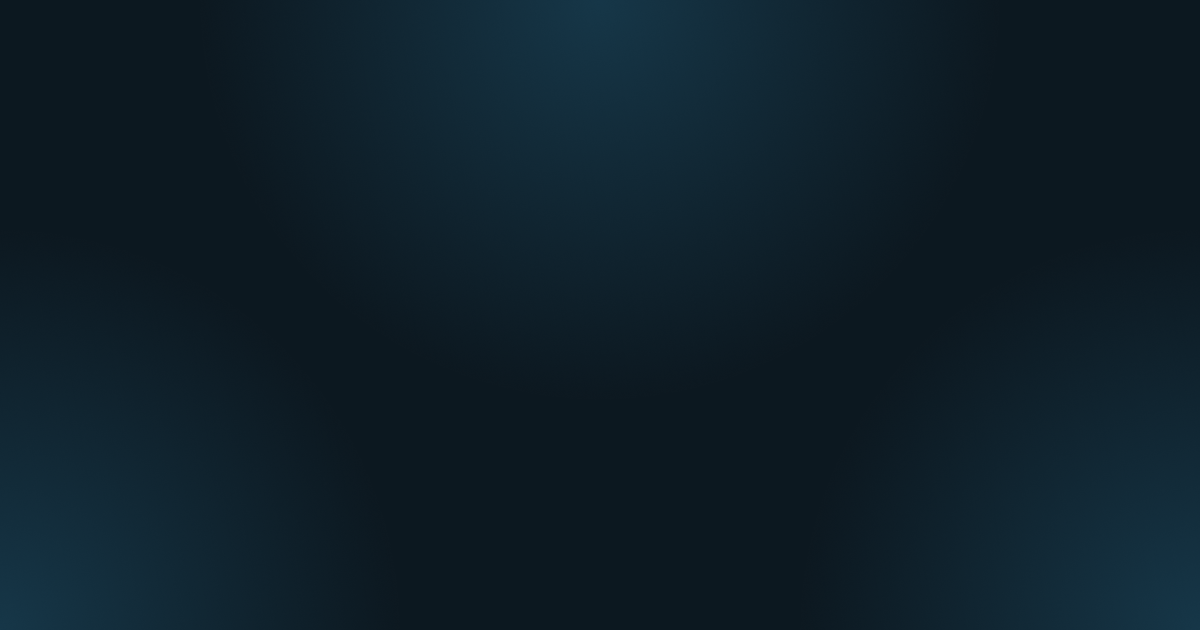
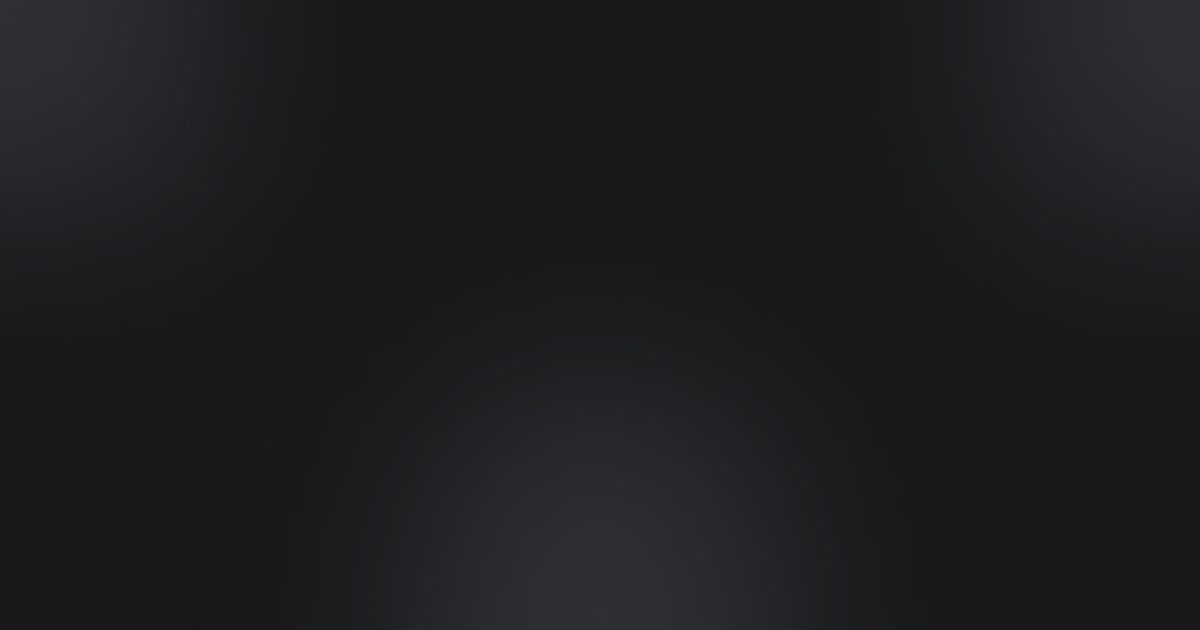
styles: rework color palette

diff --git a/src/app/(site)/page.tsx b/src/app/(site)/page.tsx
@@ -77,7 +77,7 @@ export default function SiteHome() {
 
   return (
     <Main className="gap-9 sm:gap-10">
-      <Hero {...about.hero} />
+      <Hero isBig {...about.hero} />
       <Section id={about.id} title={about.title} subtitle={about.subtitle}>
         <MDX source={about.content} />
       </Section>
@@ -96,9 +96,9 @@ export default function SiteHome() {
             className="group flex gap-5 lg:group-hover/list:opacity-50 lg:hover:!opacity-100 lg:transition-opacity"
           >
             <div className="relative">
-              <div className="group-hover:bg-accent-9 w-4 h-4 rounded-full bg-accent-7 lg:transition-colors" />
+              <div className="w-4 h-4 rounded-full bg-accent-8 group-hover:bg-accent-9 lg:transition-colors" />
               {i < experience.items.length - 1 ? (
-                <div className="absolute top-4 bottom-0 left-1/2 w-[1px] bg-accent-5" />
+                <div className="absolute top-4 bottom-0 left-1/2 w-[1px] bg-base-6" />
               ) : null}
             </div>
             <div className="flex flex-col gap-4 pb-8">
@@ -110,9 +110,7 @@ export default function SiteHome() {
                   {item.position} @ {item.company}
                 </h3>
               </div>
-              <div className="typography-2 text-dimmed">
-                <MDX source={item.description} />
-              </div>
+              <MDX className="typography-2" source={item.description} />
             </div>
           </a>
         ))}
@@ -149,13 +147,15 @@ export default function SiteHome() {
                 >
                   <Paper className="absolute -z-10 -inset-5 opacity-0 lg:group-hover:opacity-100 lg:transition-opacity" />
                   {item.imgSrc && item.imgAlt ? (
-                    <Image
-                      src={item.imgSrc}
-                      alt={item.imgAlt}
-                      width={150}
-                      height={90}
-                      className="flex-shrink-0 rounded-md border-2 border-base-6 group-hover:border-accent-8 transition-colors"
-                    />
+                    <div className="relative flex-shrink-0 rounded border-2 border-base-6 group-hover:border-accent-8 transition-colors overflow-hidden">
+                      <Image
+                        src={item.imgSrc}
+                        alt={item.imgAlt}
+                        width={150}
+                        height={90}
+                        className="group-hover:scale-110 transition-transform will-change-transform"
+                      />
+                    </div>
                   ) : null}
                   <div className="flex flex-col gap-3">
                     <a
@@ -213,7 +213,7 @@ export default function SiteHome() {
         {contactFormState.status === "success" || contactFormState.status === "error" ? (
           <div
             className={cn(
-              "rounded-md border flex items-center gap-4 p-4 typography-2 font-medium",
+              "rounded border flex items-center gap-4 p-4 typography-2 font-medium",
               contactFormState.status === "error" && "bg-error-2 border-error-6 text-error-11",
               contactFormState.status === "success" && "bg-success-2 border-success-6 text-success-11",
             )}
@@ -239,7 +239,7 @@ export default function SiteHome() {
               type="text"
               id="name"
               name="name"
-              className="form-input rounded-md border-none bg-accent-3 hover:bg-accent-4 focus:bg-accent-5 focus:ring-accent-7 transition-colors"
+              className="rounded border border-base-7 hover:border-base-8 focus:ring-0 focus:outline-none focus:border-accent-9 bg-base-3 transition-colors"
             />
           </div>
           <div className="[grid-area:email] flex flex-col gap-2">
@@ -251,7 +251,7 @@ export default function SiteHome() {
               type="email"
               id="email"
               name="email"
-              className="form-input rounded-md border-none bg-accent-3 hover:bg-accent-4 focus:bg-accent-5 focus:ring-accent-7 transition-colors"
+              className="rounded border border-base-7 hover:border-base-8 focus:ring-0 focus:outline-none focus:border-accent-9 bg-base-3 transition-colors"
             />
           </div>
           <div className="[grid-area:subject] flex flex-col gap-2">
@@ -263,7 +263,7 @@ export default function SiteHome() {
               type="text"
               id="subject"
               name="subject"
-              className="form-input rounded-md border-none bg-accent-3 hover:bg-accent-4 focus:bg-accent-5 focus:ring-accent-7 transition-colors"
+              className="rounded border border-base-7 hover:border-base-8 focus:ring-0 focus:outline-none focus:border-accent-9 bg-base-3 transition-colors"
             />
           </div>
           <div className="[grid-area:message] flex flex-col gap-2">
@@ -275,7 +275,7 @@ export default function SiteHome() {
               id="message"
               name="message"
               rows={7}
-              className="form-textarea rounded-md border-none bg-accent-3 hover:bg-accent-4 focus:bg-accent-5 focus:ring-accent-7 resize-none transition-colors"
+              className="rounded border border-base-7 hover:border-base-8 focus:ring-0 focus:outline-none focus:border-accent-9 bg-base-3 transition-colors resize-none"
             />
           </div>
           <Button className="[grid-area:button]">
@@ -284,7 +284,7 @@ export default function SiteHome() {
           </Button>
         </form>
       </Section>
-      <footer className="border-t border-base-6/50 flex flex-col gap-1 pt-4 typography-2 text-dimmed">
+      <footer className="border-t border-base-6/50 flex flex-col gap-2 pt-8 sm:pt-9 typography-2 text-dimmed">
         <MDX
           source={[
             "Built with [Next.js](https://nextjs.org) and [TailwindCSS](https://tailwindcss.com), deployed in [Vercel](https://vercel.com).",

diff --git a/src/components/mdx/mdx.component.tsx b/src/components/mdx/mdx.component.tsx
@@ -28,7 +28,7 @@ export function MDX({ className, components, ...props }: MDXProps) {
             </h1>
           ),
           h2: ({ children, ...props }) => (
-            <h2 className="mt-7 border-b border-accent-6 pb-2 typography-7 text-base font-semibold" {...props}>
+            <h2 className="mt-7 border-b border-base-6 pb-2 typography-7 text-base font-semibold" {...props}>
               {children}
             </h2>
           ),
@@ -53,7 +53,7 @@ export function MDX({ className, components, ...props }: MDXProps) {
             </h6>
           ),
           p: ({ children, ...props }) => (
-            <p className="mt-5 typography-3" {...props}>
+            <p className="mt-5" {...props}>
               {children}
             </p>
           ),
@@ -74,7 +74,7 @@ export function MDX({ className, components, ...props }: MDXProps) {
             return (
               <Wrapper
                 href={href}
-                className="inline-flex items-center gap-1 font-medium text-base hover:text-accent transition-colors"
+                className="inline-flex items-center gap-1 font-medium text-base hover:underline transition-colors"
                 {...props}
               >
                 {children}
@@ -101,9 +101,7 @@ export function MDX({ className, components, ...props }: MDXProps) {
               </Code>
             )
           },
-          code: (props) => (
-            <code className="rounded bg-accent-3 px-[0.3em] py-[0.2em] text-[86%] text-accent" {...props} />
-          ),
+          code: (props) => <code className="rounded bg-base-3 p-[0.25em_0.5em] text-[0.8em] text-base" {...props} />,
           PackageManagerCommand: (props: Record<PackageManager, "string">) => (
             <PackageManagerCommand
               content={Object.entries(props).reduce(

diff --git a/src/pages/api/resume.tsx b/src/pages/api/resume.tsx
@@ -40,9 +40,9 @@ export default async function Resume(_req: NextApiRequest, res: NextApiResponse)
 
   const buffer = await renderToBuffer(
     <Document title={`${about.name}'s Résumé`} author={about.name} language="en">
-      <Page size="A4" style={tw("bg-accent-1 flex flex-col gap-[32px] p-[24px] font-[Inter] font-normal text-base")}>
+      <Page size="A4" style={tw("bg-base-1 flex flex-col gap-[32px] p-[24px] font-[Inter] font-normal text-base")}>
         <View style={tw("flex flex-col")}>
-          <Text style={tw("text-[16px] font-semibold text-accent")}>{about.name}</Text>
+          <Text style={tw("text-[16px] font-semibold text-base")}>{about.name}</Text>
           <Text style={tw("mt-[4px] text-[12px] text-dimmed")}>{about.position}</Text>
           <Text style={tw("mt-[12px] text-[10px] leading-[1.5] text-dimmed")}>{about.description}</Text>
         </View>
@@ -53,7 +53,7 @@ export default async function Resume(_req: NextApiRequest, res: NextApiResponse)
               <View style={tw("relative")}>
                 <View style={tw("w-[8px] h-[8px] rounded-full bg-accent-9")} />
                 {i < experience.items.length - 1 ? (
-                  <View style={tw("absolute top-[8px] bottom-0 left-1/2 w-[1px] bg-accent-5")} />
+                  <View style={tw("absolute top-[8px] bottom-0 left-1/2 w-[1px] bg-base-6")} />
                 ) : null}
               </View>
               <View style={tw("w-full flex flex-col gap-[12px] pb-[24px]")}>

diff --git a/src/app/_components/glass/glass.component.tsx b/src/app/_components/glass/glass.component.tsx
@@ -21,11 +21,11 @@ export function Glass() {
 
   return (
     <div className="fixed inset-0 z-10 flex pointer-events-none">
-      <div className="absolute top-0 -translate-y-1/2 left-1/2 -translate-x-1/2 rounded-full w-[250px] sm:w-[750px] aspect-square bg-accent-5" />
-      <div className="absolute bottom-0 translate-y-1/2 left-0 -translate-x-1/2 rounded-full w-[250px] sm:w-[750px] aspect-square bg-accent-5" />
-      <div className="absolute bottom-0 translate-y-1/2 right-0 translate-x-1/2 rounded-full w-[250px] sm:w-[750px] aspect-square bg-accent-5" />
-      <div ref={spotlightRef} className="hidden lg:block absolute rounded-full w-[100px] aspect-square bg-accent-8" />
-      <div className="absolute inset-0 bg-accent-1/50 backdrop-blur-[100px] backdrop-saturate-200" />
+      <div className="absolute top-0 -translate-y-1/2 left-1/2 -translate-x-1/2 rounded-full w-[250px] sm:w-[500px] aspect-square bg-base-5" />
+      <div className="absolute bottom-0 translate-y-1/2 left-0 -translate-x-1/2 rounded-full w-[250px] sm:w-[500px] aspect-square bg-base-5" />
+      <div className="absolute bottom-0 translate-y-1/2 right-0 translate-x-1/2 rounded-full w-[250px] sm:w-[500px] aspect-square bg-base-5" />
+      <div ref={spotlightRef} className="hidden lg:block absolute rounded-full w-[100px] aspect-square bg-base-8" />
+      <div className="absolute inset-0 bg-base-1/50 backdrop-blur-[100px] backdrop-saturate-200" />
     </div>
   )
 }

diff --git a/tailwind.config.js b/tailwind.config.js
@@ -25,13 +25,10 @@ export default {
   theme: {
     colors: {
       ...fromRadix(radix.slateDark, "base"),
-      ...fromRadix(radix.slateDarkA, "base-a"),
-      ...fromRadix(radix.skyDark, "accent"),
-      ...fromRadix(radix.skyDarkA, "accent-a"),
+      ...fromRadix(radix.mintDark, "accent"),
       ...fromRadix(radix.greenDark, "success"),
       ...fromRadix(radix.greenDarkA, "success-a"),
       ...fromRadix(radix.redDark, "error"),
-      ...fromRadix(radix.redDarkA, "error-a"),
     },
     spacing,
     minWidth: spacing,
@@ -110,8 +107,8 @@ export default {
       addUtilities({
         ".text-base": { color: theme("colors.base-12") },
         ".text-dimmed": { color: theme("colors.base-11") },
-        ".text-extradimmed": { color: theme("colors.base-10") },
-        ".text-contrast": { color: theme("colors.base-1") },
+        ".text-extradimmed": { color: theme("colors.base-8") },
+        ".text-contrast": { color: "black" },
         ".text-accent": { color: theme("colors.accent-11") },
       })
     }),

diff --git a/src/components/hero/hero.component.tsx b/src/components/hero/hero.component.tsx
@@ -2,23 +2,26 @@ import type { HTMLAttributes } from "react"
 
 import Image from "next/image"
 
+import { cn } from "@/utils/ui"
+
 import { MDX } from "../mdx"
 
 export type HeroProps = HTMLAttributes<HTMLElement> & {
+  isBig?: boolean
   title: string
   subtitle: string
   imgSrc?: string
   imgAlt?: string
 }
 
-export function Hero({ title, subtitle, imgSrc, imgAlt, ...props }: HeroProps) {
+export function Hero({ isBig, title, subtitle, imgSrc, imgAlt, ...props }: HeroProps) {
   return (
     <header className="flex flex-col md:flex-row-reverse items-center gap-5" {...props}>
       {imgSrc && imgAlt ? (
         <Image priority src={imgSrc} alt={imgAlt} width={300} height={300} className="flex-shrink-0" />
       ) : null}
       <div className="flex-auto flex flex-col gap-3">
-        <h1 className="typography-8 font-bold">
+        <h1 className={cn(isBig ? "typography-9" : "typography-8", "font-bold")}>
           <MDX
             className="text-base"
             source={title}

diff --git a/src/components/button/button.component.tsx b/src/components/button/button.component.tsx
@@ -8,13 +8,12 @@ import { forwardRef } from "react"
 import { cn } from "@/utils/ui"
 
 const buttonVariants = cva(
-  "min-w-7 min-h-7 rounded-md inline-flex items-center justify-center px-3 gap-1 text-2 font-medium cursor-pointer transition-colors",
+  "min-w-7 min-h-7 rounded inline-flex items-center justify-center px-3 gap-1 text-2 font-medium cursor-pointer transition-colors",
   {
     variants: {
       variant: {
-        primary: "bg-base-12 text-contrast active:translate-y-[2px]",
-        secondary:
-          "border border-accent-6 hover:border-accent-7 active:border-accent-8 bg-accent-3 hover:bg-accent-4 text-base",
+        primary: "bg-base-12 active:translate-y-[2px] text-contrast",
+        secondary: "border border-base-7 hover:border-base-8 active:border-base-9 bg-base-3 hover:bg-base-4 text-base",
       },
     },
     defaultVariants: {

diff --git a/src/components/tooltip/tooltip.component.tsx b/src/components/tooltip/tooltip.component.tsx
@@ -22,7 +22,7 @@ export function Tooltip({ delay = 0, sideOffset = 4, content, className, childre
           sideOffset={sideOffset}
           className={cn(
             "animate-in fade-in-0 zoom-in-95 data-[state=closed]:animate-out data-[state=closed]:fade-out-0 data-[state=closed]:zoom-out-95 data-[side=bottom]:slide-in-from-top-2 data-[side=left]:slide-in-from-right-2 data-[side=right]:slide-in-from-left-2 data-[side=top]:slide-in-from-bottom-2",
-            "border border-accent-6 bg-accent-3 text-[12px] text-base font-medium leading-[1] select-none rounded-[4px] px-[8px] py-[4px] will-change-[transform,opacity]",
+            "bg-base-12 text-[12px] text-base-1 font-medium leading-[1] select-none rounded px-[8px] py-[4px] will-change-[transform,opacity]",
             className,
           )}
           {...props}

diff --git a/src/app/(site)/_components/site-nav/site-nav.component.tsx b/src/app/(site)/_components/site-nav/site-nav.component.tsx
@@ -61,8 +61,8 @@ export function SiteNav() {
               aria-current={item.href === activeHref || (!activeHref && i === 0) ? "page" : undefined}
               aria-label={item.label}
               className={cn(
-                "sm:w-7 sm:h-7 rounded-md sm:hover:bg-accent-4 flex items-center sm:justify-center gap-3 sm:text-dimmed sm:hover:text-base transition-colors",
-                "sm:aria-[current=page]:bg-accent-9 sm:aria-[current=page]:text-contrast",
+                "sm:w-7 sm:h-7 rounded sm:hover:bg-base-4 flex items-center sm:justify-center gap-3 sm:text-dimmed sm:hover:text-base transition-colors",
+                "sm:aria-[current=page]:bg-base-12 sm:aria-[current=page]:text-contrast",
               )}
               onClick={() => setIsExpanded(false)}
             >

diff --git a/src/app/docs/[project]/opengraph-image/route.tsx b/src/app/docs/[project]/opengraph-image/route.tsx
@@ -11,7 +11,7 @@ export async function GET(req: Request, { params: { project } }: { params: { pro
     if (!page || !page.meta.imgSrc || !page.meta.imgAlt) throw new Error(`Can not handle path.`)
 
     return ogImageResponse(
-      <OgImage className="flex-row items-center justify-center gap-8">
+      <OgImage className="flex-row items-center justify-center gap-5">
         <div className="w-[420px] flex flex-col gap-5">
           <span className="h-auto typography-9 font-bold">{page.meta.title || docs.title}</span>
           <span className="typography-5 text-dimmed">{page.meta.description || docs.description}</span>

diff --git a/src/app/layout.tsx b/src/app/layout.tsx
@@ -18,7 +18,7 @@ type RootLayoutProps = {
 export default function RootLayout({ children }: RootLayoutProps) {
   return (
     <html lang="en" className={cn(inter.className, "scroll-smooth")}>
-      <body className="min-h-[100dvh] bg-accent-1 flex flex-col sm:flex-row antialiased typography-3 text-base selection:bg-accent-12 selection:text-accent-1">
+      <body className="min-h-[100dvh] bg-base-1 flex flex-col sm:flex-row antialiased typography-3 text-base selection:bg-base-12 selection:text-base-1">
         <Glass />
         {children}
         <Analytics />

diff --git a/src/components/tabs/tabs.component.tsx b/src/components/tabs/tabs.component.tsx
@@ -17,7 +17,7 @@ export function Tabs({ className, content, ...props }: TabsProps) {
           <TabsPrimitive.Trigger
             key={value}
             value={value}
-            className="rounded bg-accent-3 hover:bg-accent-4 data-[state=active]:bg-accent-5 px-4 py-2 typography-2 font-medium text-dimmed data-[state=active]:text-base"
+            className="rounded hover:bg-base-4 data-[state=active]:bg-base-5 px-4 py-2 typography-2 font-medium text-dimmed data-[state=active]:text-base"
           >
             {value}
           </TabsPrimitive.Trigger>
